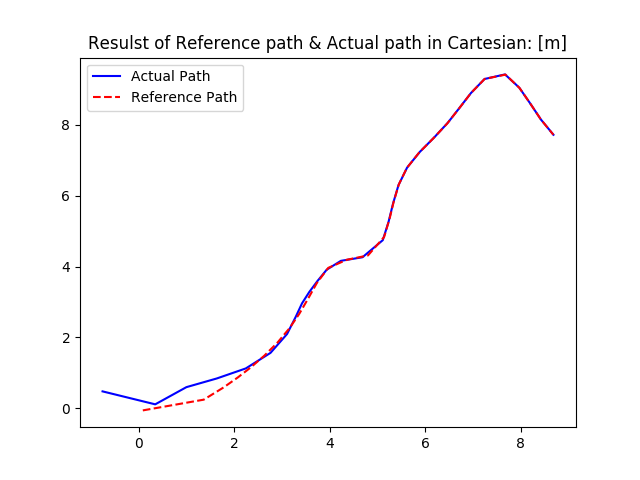
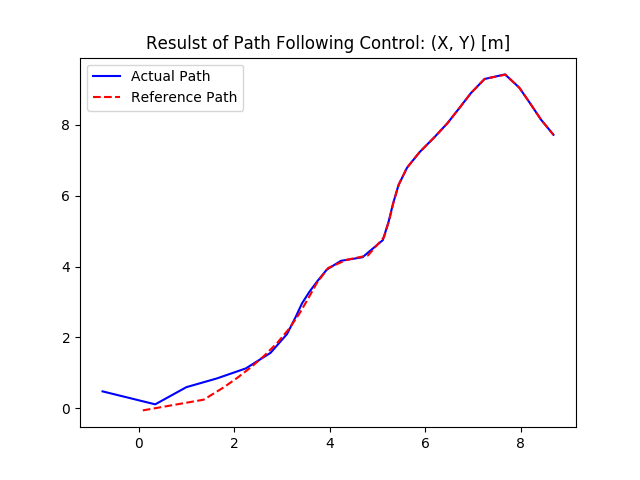
updated README

Changed region(s): [[0.125, 0.0625, 0.875, 0.125]]

diff --git a/ImplementAlgorithm/cpp/path_following_frenet.cpp b/ImplementAlgorithm/cpp/path_following_frenet.cpp
@@ -210,7 +210,7 @@ void pathFollowingFrenet::plotStates() const
 void pathFollowingFrenet::plotXYCartesian() const
 {
     /* plot both reference path and actual path in Cartesian coordinates */
-    plt::title("Resulst of Reference path & Actual path in Cartesian: [m]");
+    plt::title("Resulst of Path Following Control: (X, Y) [m]");
     plt::named_plot("Actual Path", x_vec_, y_vec_, "b");
     plt::named_plot("Reference Path", x0_vec_, y0_vec_, "r--");
     plt::legend();

diff --git a/README.md b/README.md
@@ -1,5 +1,9 @@
 # Planning and Control Package of Self Driving Car <br />
-<img align="center" src="simple_path_following.png" width="450" /> <br />
+<p align="center">
+  <img src="simple_path_following.png" width="600" />
+</p>
+
+
 ## Build
 ### Dependencies
 * Qt (refer to [official docs for installation](https://wiki.qt.io/Install_Qt_5_on_Ubuntu))
